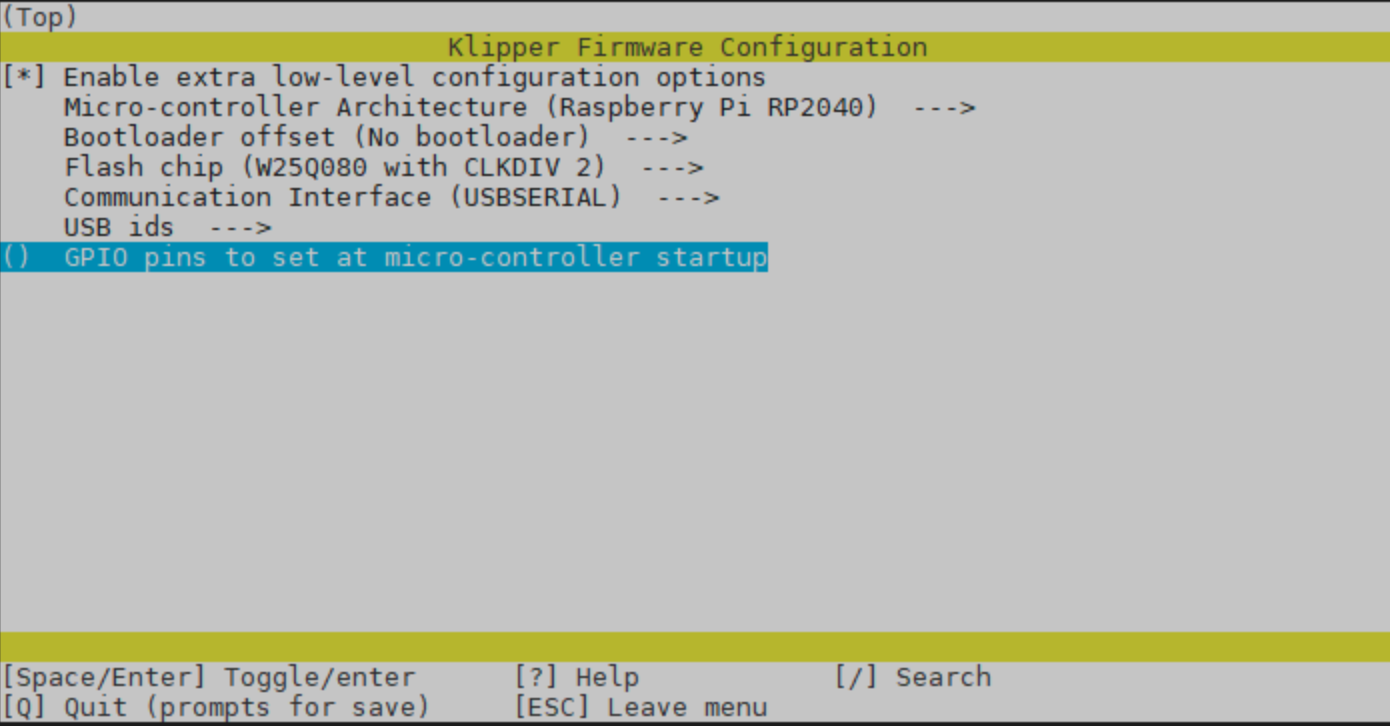
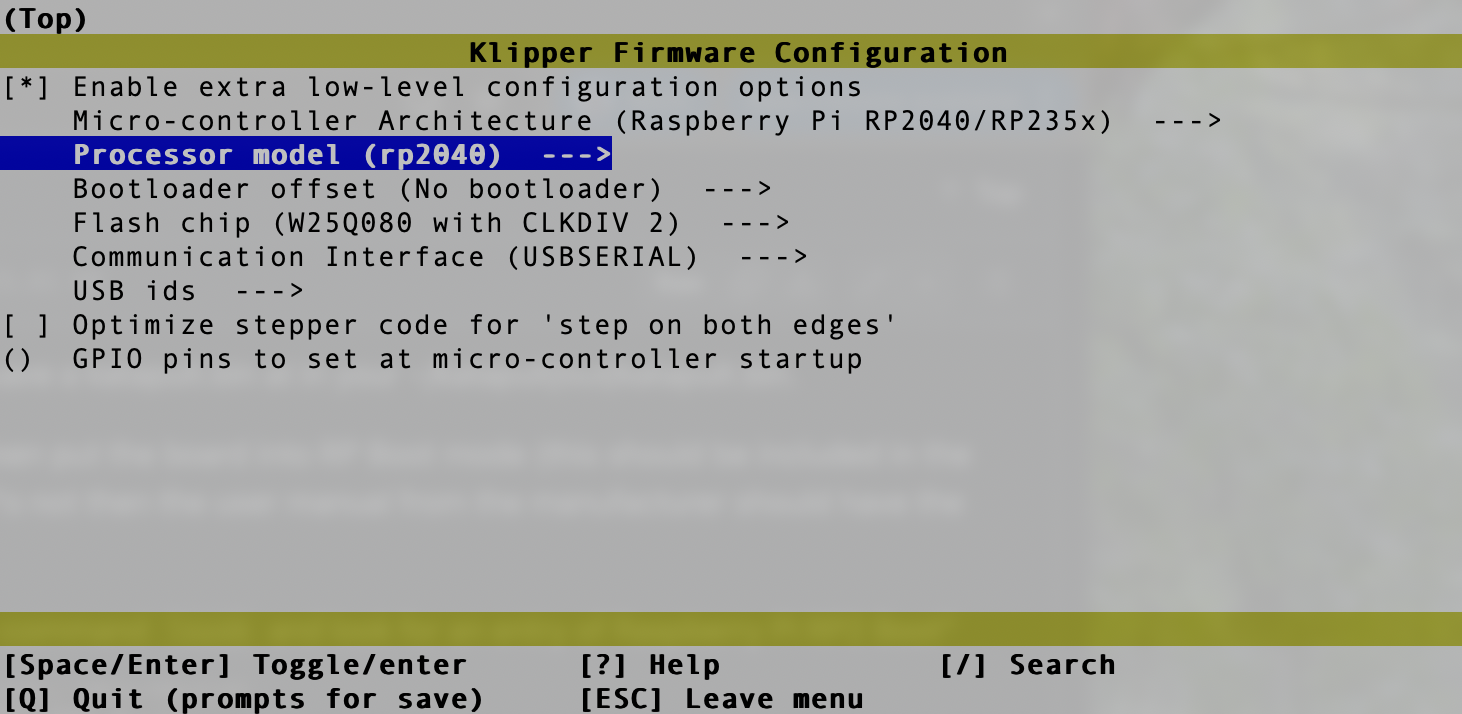
Updated menuconfig screenshot for ERB v2 board and fixed flashing procedure

diff --git a/doc/Mcu-Reference.md b/doc/Mcu-Reference.md
@@ -164,7 +164,18 @@ all:
    interface) - specific to the MCU chip on your board, not something this
    page can give one universal answer for.
 4. Save and exit (`Q`).
-5. Then flash it:
+5. You will need the correct device name. You can use `lsusb` to
+   list all USB devices. E.g
+
+        :::
+        Bus 002 Device 001: ID 1d6b:0003 Linux Foundation 3.0 root hub
+        Bus 001 Device 007: ID 2e8a:0003 Raspberry Pi RP2 Boot
+        Bus 001 Device 004: ID 1d50:614e OpenMoko, Inc. stm32f446xx
+   ID `2e8a:0003` should match you new device. Then flash it:
+
+        :::bash
+        make flash FLASH_DEVICE=2e8a:0003
+   Alternatively you can find you device with `ls -l /dev/serial/by-id` and flash:
 
         :::bash
         make flash FLASH_DEVICE=/dev/serial/by-id/<your-mcu-id>
@@ -180,9 +191,5 @@ all:
     disappeared - that's the one that was yours.
 
 ## See also
-
-- [Getting Started with Box Turtle](GettingStarted-BoxTurtle.md#board-type)
-- [Getting Started with BTT ViViD](GettingStarted-ViViD.md)
-- [Installation](Installation.md)
 
 ---
